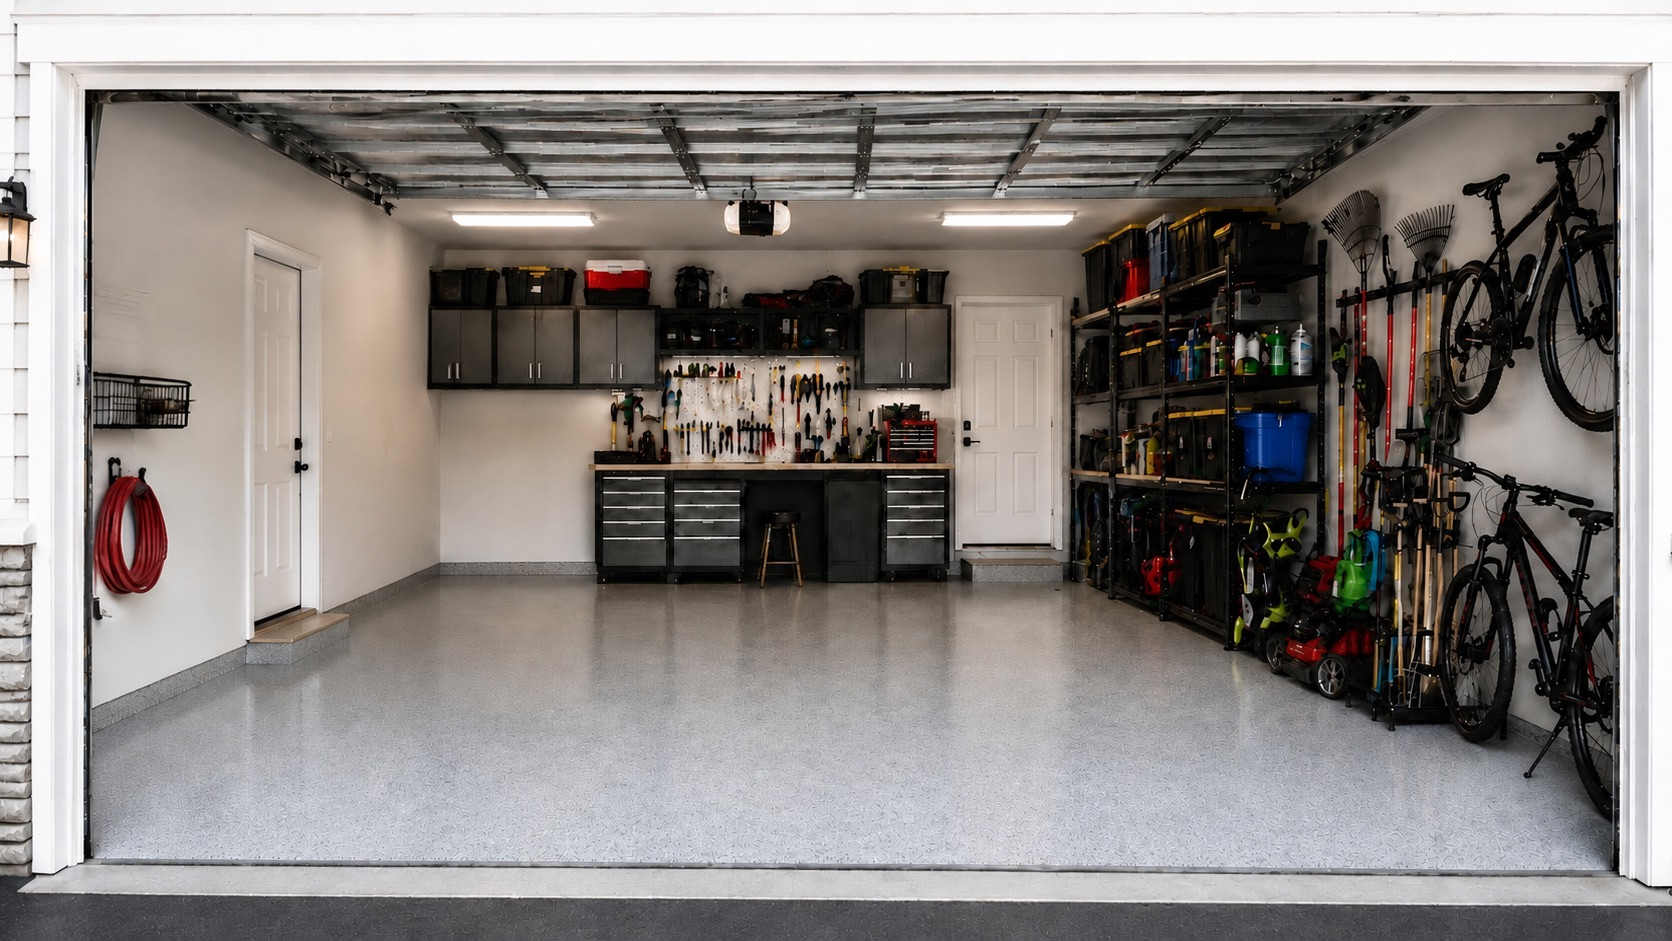
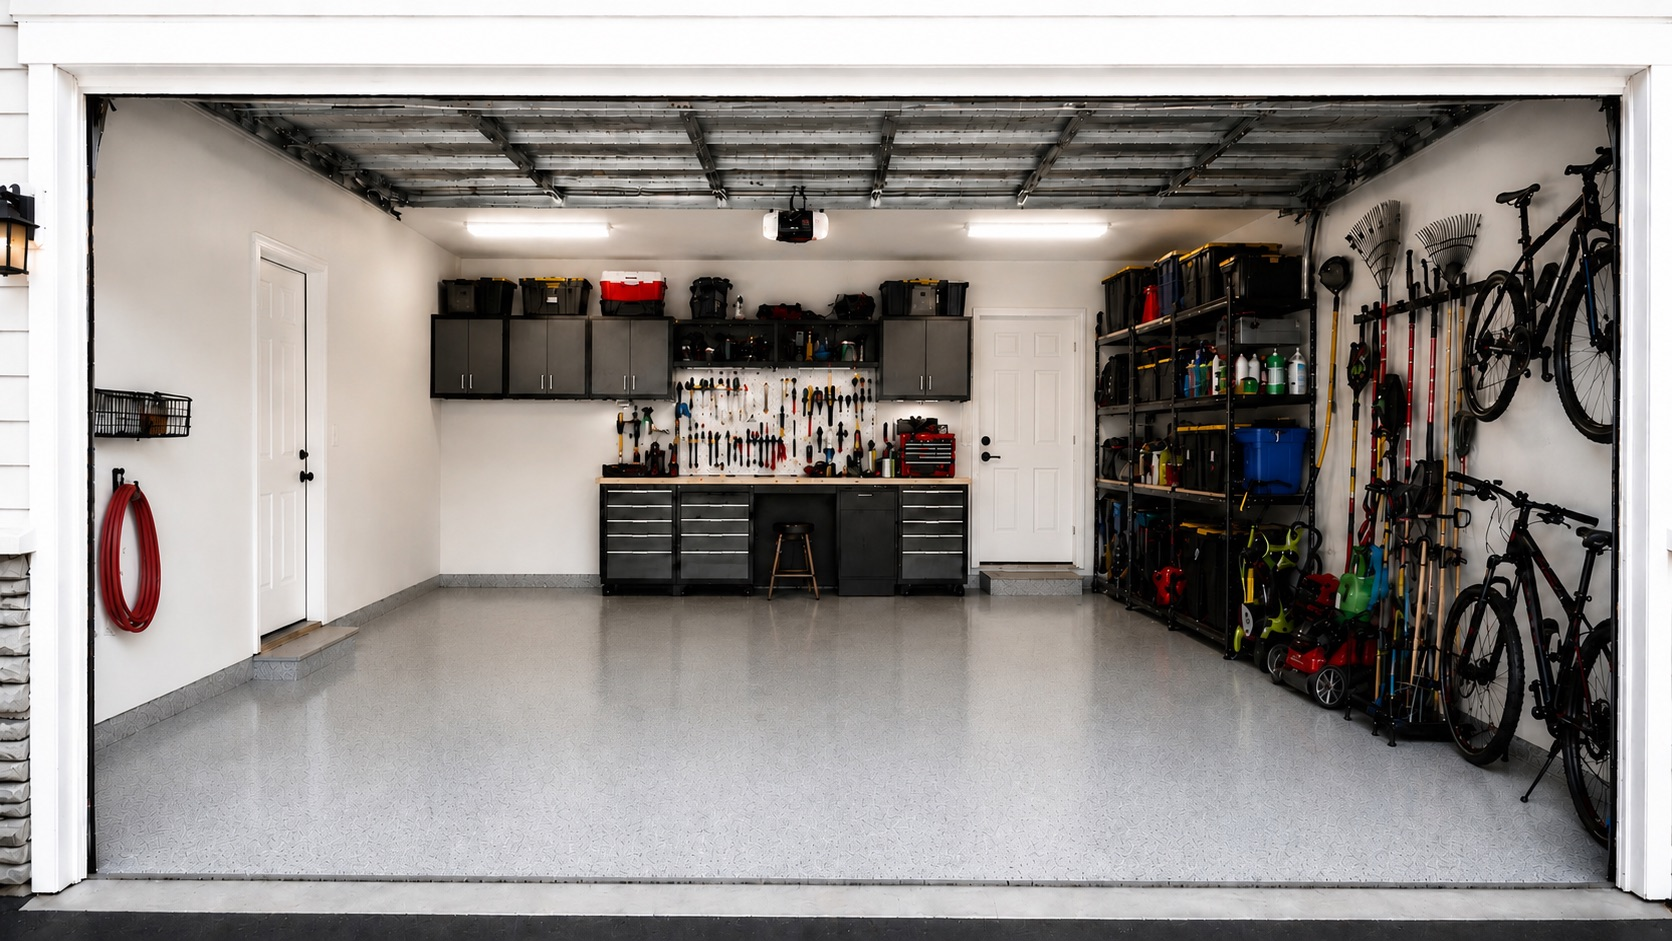
images updated

diff --git a/components/services/AdditionalServicesGrid.tsx b/components/services/AdditionalServicesGrid.tsx
@@ -28,9 +28,9 @@ const serviceImageMap: { [key: string]: string } = {
   'Garage Inspection & Consultation': '/services/garage-inspection.jpeg',
   'Sorting & Categorization': '/services/sorting-category.jpeg',
   'Junk & Debris Removal': '/services/junk-debris-removal.jpeg',
-  'Responsible Disposal & Recycling': '/services/sorting-category.png',
+  'Responsible Disposal & Recycling': '/services/recycle.jpeg',
   'Floor Vacuuming & Dust Removal': '/services/vaccuming-floor.jpeg',
-  'Power Washing for Deep Clean': '/services/power-washing.jpeg',
+  'Power Washing for Deep Clean': '/services/power-wash.jpeg',
   'Floor Mopping & Finishing': '/services/floor-mopping.jpeg',
   'Dusting Shelves, Walls & Corners': '/services/dusting-shelves.jpeg',
   'Stain & Grime Scrubbing': '/services/scrubbing.jpeg',

diff --git a/components/Home/ServicesSection.tsx b/components/Home/ServicesSection.tsx
@@ -16,7 +16,7 @@ const SERVICES = [
   { id: 1, title: 'Garage Clean-Out',             image: '/services/garage-after.jpeg', anchor: 'garage-cleanouts' },
   { id: 2, title: 'Garage Deep Cleaning',         image: '/services/deepcleaning-after.jpeg', anchor: 'deep-cleaning' },
   { id: 3, title: 'Garage Organization',          image: '/services/garage-organization-after.jpeg', anchor: 'garage-organisation' },
-  { id: 4, title: 'Donation & Recycling Support', image: '/hero-image.png', anchor: '' },
+  { id: 4, title: 'Donation & Recycling Support', image: '/services/recycle.jpeg', anchor: '' },
 ]
 
 // ── Service Row ───────────────────────────────────────────────────────────────